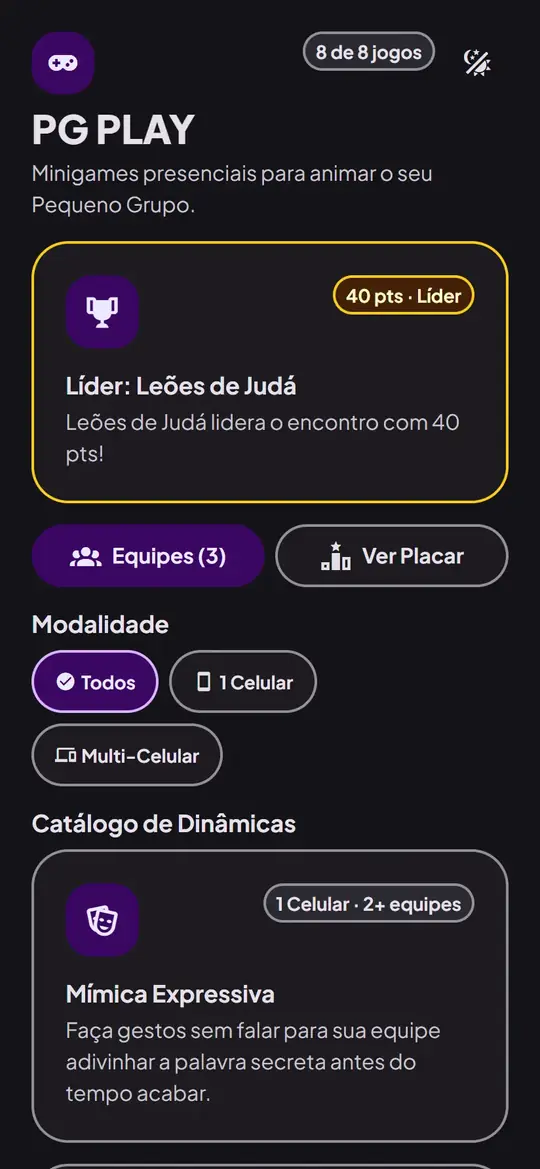
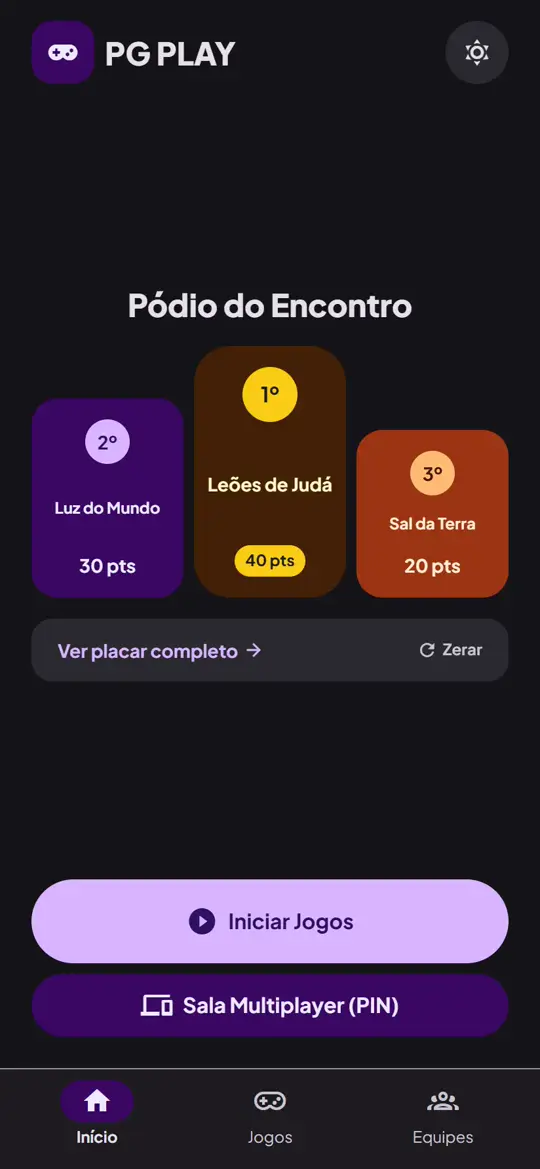
fix(docs): atualizar pacote, sons, exclusao e telas do site

diff --git a/site/index.html b/site/index.html
@@ -31,7 +31,7 @@
             <li><a class="nav-link" href="privacidade.html">Privacidade</a></li>
           </ul>
         </nav>
-        <a class="button button-primary header-cta" href="https://play.google.com/store/apps/details?id=br.edu.ifpi.pgplay"><svg viewBox="0 0 24 24" aria-hidden="true" focusable="false"><path fill="currentColor" d="M6 3.5v17a1 1 0 0 0 1.5.9l14-8.5a1 1 0 0 0 0-1.8l-14-8.5A1 1 0 0 0 6 3.5Z"/></svg>Baixar</a>
+        <a class="button button-primary header-cta" href="https://play.google.com/store/apps/details?id=br.pgplay.app"><svg viewBox="0 0 24 24" aria-hidden="true" focusable="false"><path fill="currentColor" d="M6 3.5v17a1 1 0 0 0 1.5.9l14-8.5a1 1 0 0 0 0-1.8l-14-8.5A1 1 0 0 0 6 3.5Z"/></svg>Baixar</a>
         <details class="menu">
           <summary aria-label="Menu"><svg class="icon-open" viewBox="0 0 24 24" fill="none" stroke="currentColor" stroke-width="2.4" stroke-linecap="round" aria-hidden="true" focusable="false"><path d="M4 7h16M4 12h16M4 17h10"/></svg><svg class="icon-close" viewBox="0 0 24 24" fill="none" stroke="currentColor" stroke-width="2.4" stroke-linecap="round" aria-hidden="true" focusable="false"><path d="M6 6l12 12M18 6 6 18"/></svg></summary>
           <nav class="menu-panel" aria-label="Menu">
@@ -42,7 +42,7 @@
               <li><a class="nav-link" href="privacidade.html"><svg viewBox="0 0 24 24" fill="none" stroke="currentColor" stroke-width="2" stroke-linecap="round" stroke-linejoin="round" aria-hidden="true" focusable="false"><path d="M12 3 4 6v6c0 4.5 3.4 8 8 9 4.6-1 8-4.5 8-9V6l-8-3Z"/><path d="m9 12 2 2 4-4"/></svg>Privacidade</a></li>
               <li><a class="nav-link" href="termos.html"><svg viewBox="0 0 24 24" fill="none" stroke="currentColor" stroke-width="2" stroke-linecap="round" stroke-linejoin="round" aria-hidden="true" focusable="false"><path d="M7 3h7l4 4v14H7z"/><path d="M14 3v4h4M10 12h5M10 16h5"/></svg>Termos de Uso</a></li>
             </ul>
-            <a class="button button-primary" href="https://play.google.com/store/apps/details?id=br.edu.ifpi.pgplay"><svg viewBox="0 0 24 24" aria-hidden="true" focusable="false"><path fill="currentColor" d="M6 3.5v17a1 1 0 0 0 1.5.9l14-8.5a1 1 0 0 0 0-1.8l-14-8.5A1 1 0 0 0 6 3.5Z"/></svg>Baixar no Google Play</a>
+            <a class="button button-primary" href="https://play.google.com/store/apps/details?id=br.pgplay.app"><svg viewBox="0 0 24 24" aria-hidden="true" focusable="false"><path fill="currentColor" d="M6 3.5v17a1 1 0 0 0 1.5.9l14-8.5a1 1 0 0 0 0-1.8l-14-8.5A1 1 0 0 0 6 3.5Z"/></svg>Baixar no Google Play</a>
           </nav>
         </details>
       </div>
@@ -57,7 +57,7 @@
           <h1 id="titulo">Minigames e dinâmicas interativas para <span class="shine">Pequenos Grupos</span></h1>
           <p class="lead">O PG PLAY junta 8 jogos para animar o encontro da sua célula, do grupo de jovens ou da família: do quebra-gelo ao momento de oração, com um celular passando de mão em mão ou com todo mundo na mesma sala.</p>
           <div class="actions">
-            <a class="button button-primary button-jumbo" href="https://play.google.com/store/apps/details?id=br.edu.ifpi.pgplay">
+            <a class="button button-primary button-jumbo" href="https://play.google.com/store/apps/details?id=br.pgplay.app">
               <svg viewBox="0 0 24 24" aria-hidden="true" focusable="false"><path fill="currentColor" d="M6 3.5v17a1 1 0 0 0 1.5.9l14-8.5a1 1 0 0 0 0-1.8l-14-8.5A1 1 0 0 0 6 3.5Z"/></svg>
               Baixar no Google Play
             </a>
@@ -78,7 +78,7 @@
           <figure class="phone">
             <picture>
               <source srcset="assets/screens/hub-dark.webp" media="(prefers-color-scheme: dark)">
-              <img src="assets/screens/hub.webp" alt="Tela inicial do PG PLAY: a equipe Leões de Judá lidera com 40 pontos, com filtros por modalidade e o catálogo de dinâmicas começando pela Mímica Expressiva." width="540" height="1169" fetchpriority="high">
+              <img src="assets/screens/hub.webp" alt="Tela inicial do PG PLAY: Pódio do Encontro com Leões de Judá em 1º lugar com 40 pontos, Luz do Mundo em 2º e Sal da Terra em 3º, e os botões Iniciar Jogos e Sala Multiplayer (PIN)." width="540" height="1169" fetchpriority="high">
             </picture>
           </figure>
           <span class="float float-timer" aria-hidden="true"><svg viewBox="0 0 24 24" fill="none" stroke="currentColor" stroke-width="2.4" stroke-linecap="round"><circle cx="12" cy="13" r="8"/><path d="M12 9v4l2.5 2M9 2h6"/></svg>00:59</span>
@@ -106,7 +106,7 @@
           <li class="step">
             <span class="step-number"><span class="shape" aria-hidden="true"><svg viewBox="0 0 200 200" focusable="false"><path class="fill-action" d="M100.0 12.0L107.5 14.4L114.2 19.5L120.6 23.1L127.9 23.2L136.3 22.1L144.0 23.8L149.3 29.6L152.5 37.4L156.3 43.7L162.6 47.5L170.4 50.7L176.2 56.0L177.9 63.7L176.8 72.1L176.9 79.4L180.5 85.8L185.6 92.5L188.0 100.0L185.6 107.5L180.5 114.2L176.9 120.6L176.8 127.9L177.9 136.3L176.2 144.0L170.4 149.3L162.6 152.5L156.3 156.3L152.5 162.6L149.3 170.4L144.0 176.2L136.3 177.9L127.9 176.8L120.6 176.9L114.2 180.5L107.5 185.6L100.0 188.0L92.5 185.6L85.8 180.5L79.4 176.9L72.1 176.8L63.7 177.9L56.0 176.2L50.7 170.4L47.5 162.6L43.7 156.3L37.4 152.5L29.6 149.3L23.8 144.0L22.1 136.3L23.2 127.9L23.1 120.6L19.5 114.2L14.4 107.5L12.0 100.0L14.4 92.5L19.5 85.8L23.1 79.4L23.2 72.1L22.1 63.7L23.8 56.0L29.6 50.7L37.4 47.5L43.7 43.7L47.5 37.4L50.7 29.6L56.0 23.8L63.7 22.1L72.1 23.2L79.4 23.1L85.8 19.5L92.5 14.4Z"/></svg></span>1</span>
             <figure class="phone">
-              <img src="assets/screens/teams.webp" alt="Tela de configuração de equipes com Leões de Judá, Luz do Mundo e Sal da Terra cadastradas e o botão Começar Rodada." width="540" height="1169" loading="lazy" decoding="async">
+              <img src="assets/screens/teams.webp" alt="Tela Equipes do Encontro com Leões de Judá, Luz do Mundo e Sal da Terra cadastradas e o botão Escolher Jogo." width="540" height="1169" loading="lazy" decoding="async">
             </figure>
             <div>
               <h3>Cadastre as equipes</h3>
@@ -116,7 +116,7 @@
           <li class="step">
             <span class="step-number"><span class="shape" aria-hidden="true"><svg viewBox="0 0 200 200" focusable="false"><path class="fill-secondary" d="M100.0 12.0L107.5 14.2L114.1 19.8L119.9 25.7L125.6 29.6L132.5 30.3L140.7 29.4L149.4 29.5L156.6 32.6L160.9 39.1L162.4 47.6L163.0 55.9L164.9 62.5L169.7 67.5L176.6 72.1L183.2 77.7L186.7 84.7L185.8 92.5L181.5 100.0L176.6 106.7L173.8 113.0L174.3 119.9L176.6 127.9L178.0 136.4L176.2 144.0L170.5 149.4L162.4 152.4L154.4 154.4L148.2 157.4L144.1 163.0L140.7 170.6L136.4 178.0L130.1 182.7L122.3 183.2L114.1 180.2L106.7 176.6L100.0 175.0L93.3 176.6L85.9 180.2L77.7 183.2L69.9 182.7L63.6 178.0L59.3 170.6L55.9 163.0L51.8 157.4L45.6 154.4L37.6 152.4L29.5 149.4L23.8 144.0L22.0 136.4L23.4 127.9L25.7 119.9L26.2 113.0L23.4 106.7L18.5 100.0L14.2 92.5L13.3 84.7L16.8 77.7L23.4 72.1L30.3 67.5L35.1 62.5L37.0 55.9L37.6 47.6L39.1 39.1L43.4 32.6L50.6 29.5L59.3 29.4L67.5 30.3L74.4 29.6L80.1 25.7L85.9 19.8L92.5 14.2Z"/></svg></span>2</span>
             <figure class="phone">
-              <img src="assets/screens/hub-dark.webp" alt="Catálogo de dinâmicas no tema escuro, com filtros Todos, 1 Celular e Multi-Celular." width="540" height="1169" loading="lazy" decoding="async">
+              <img src="assets/screens/jogos-dark.webp" alt="Aba Jogos do Encontro no tema escuro, com os filtros Todos, 1 Celular e Multi-Celular e os cartões da Mímica Expressiva e do Quiz Relâmpago." width="540" height="1169" loading="lazy" decoding="async">
             </figure>
             <div>
               <h3>Escolha a dinâmica</h3>
@@ -367,8 +367,8 @@
           <li>
             <article class="card">
               <span class="badge badge-success" aria-hidden="true"><svg viewBox="0 0 24 24" fill="none" stroke="currentColor" stroke-width="2" stroke-linecap="round" stroke-linejoin="round"><rect x="7" y="2" width="10" height="20" rx="3"/><path d="M3 8v8M21 8v8"/></svg></span>
-              <h3>Vibração que avisa</h3>
-              <p>O celular vibra nos 10 segundos finais e no acerto ou erro, para quem não está olhando a tela.</p>
+              <h3>Som e vibração que avisam</h3>
+              <p>Sons curtos e vibração marcam os acertos, os erros, os 10 segundos finais e o fim do tempo, para quem não está olhando a tela.</p>
             </article>
           </li>
           <li>
@@ -404,7 +404,7 @@
           <h2 id="titulo-cta">Leve o PG PLAY para o seu próximo encontro</h2>
           <p>Gratuito, sem anúncios e pronto para jogar com o grupo em poucos toques.</p>
           <div class="actions">
-            <a class="button button-highlight button-jumbo" href="https://play.google.com/store/apps/details?id=br.edu.ifpi.pgplay">
+            <a class="button button-highlight button-jumbo" href="https://play.google.com/store/apps/details?id=br.pgplay.app">
               <svg viewBox="0 0 24 24" aria-hidden="true" focusable="false"><path fill="currentColor" d="M6 3.5v17a1 1 0 0 0 1.5.9l14-8.5a1 1 0 0 0 0-1.8l-14-8.5A1 1 0 0 0 6 3.5Z"/></svg>
               Baixar no Google Play
             </a>

diff --git a/site/privacidade.html b/site/privacidade.html
@@ -32,7 +32,7 @@
             <li><a class="nav-link" href="termos.html">Termos de Uso</a></li>
           </ul>
         </nav>
-        <a class="button button-primary header-cta" href="https://play.google.com/store/apps/details?id=br.edu.ifpi.pgplay"><svg viewBox="0 0 24 24" aria-hidden="true" focusable="false"><path fill="currentColor" d="M6 3.5v17a1 1 0 0 0 1.5.9l14-8.5a1 1 0 0 0 0-1.8l-14-8.5A1 1 0 0 0 6 3.5Z"/></svg>Baixar</a>
+        <a class="button button-primary header-cta" href="https://play.google.com/store/apps/details?id=br.pgplay.app"><svg viewBox="0 0 24 24" aria-hidden="true" focusable="false"><path fill="currentColor" d="M6 3.5v17a1 1 0 0 0 1.5.9l14-8.5a1 1 0 0 0 0-1.8l-14-8.5A1 1 0 0 0 6 3.5Z"/></svg>Baixar</a>
         <details class="menu">
           <summary aria-label="Menu"><svg class="icon-open" viewBox="0 0 24 24" fill="none" stroke="currentColor" stroke-width="2.4" stroke-linecap="round" aria-hidden="true" focusable="false"><path d="M4 7h16M4 12h16M4 17h10"/></svg><svg class="icon-close" viewBox="0 0 24 24" fill="none" stroke="currentColor" stroke-width="2.4" stroke-linecap="round" aria-hidden="true" focusable="false"><path d="M6 6l12 12M18 6 6 18"/></svg></summary>
           <nav class="menu-panel" aria-label="Menu">
@@ -42,7 +42,7 @@
               <li><a class="nav-link" href="privacidade.html" aria-current="page"><svg viewBox="0 0 24 24" fill="none" stroke="currentColor" stroke-width="2" stroke-linecap="round" stroke-linejoin="round" aria-hidden="true" focusable="false"><path d="M12 3 4 6v6c0 4.5 3.4 8 8 9 4.6-1 8-4.5 8-9V6l-8-3Z"/><path d="m9 12 2 2 4-4"/></svg>Privacidade</a></li>
               <li><a class="nav-link" href="termos.html"><svg viewBox="0 0 24 24" fill="none" stroke="currentColor" stroke-width="2" stroke-linecap="round" stroke-linejoin="round" aria-hidden="true" focusable="false"><path d="M7 3h7l4 4v14H7z"/><path d="M14 3v4h4M10 12h5M10 16h5"/></svg>Termos de Uso</a></li>
             </ul>
-            <a class="button button-primary" href="https://play.google.com/store/apps/details?id=br.edu.ifpi.pgplay"><svg viewBox="0 0 24 24" aria-hidden="true" focusable="false"><path fill="currentColor" d="M6 3.5v17a1 1 0 0 0 1.5.9l14-8.5a1 1 0 0 0 0-1.8l-14-8.5A1 1 0 0 0 6 3.5Z"/></svg>Baixar no Google Play</a>
+            <a class="button button-primary" href="https://play.google.com/store/apps/details?id=br.pgplay.app"><svg viewBox="0 0 24 24" aria-hidden="true" focusable="false"><path fill="currentColor" d="M6 3.5v17a1 1 0 0 0 1.5.9l14-8.5a1 1 0 0 0 0-1.8l-14-8.5A1 1 0 0 0 6 3.5Z"/></svg>Baixar no Google Play</a>
           </nav>
         </details>
       </div>
@@ -52,9 +52,9 @@
   <main id="conteudo" class="doc">
     <span class="tag">Documento oficial</span>
     <h1>Política de Privacidade do PG PLAY</h1>
-    <p class="doc-meta">Versão 1.0 · Última atualização: 24 de novembro de 2026</p>
+    <p class="doc-meta">Versão 1.1 · Última atualização: 25 de novembro de 2026</p>
 
-    <p>Esta política explica quais dados o aplicativo <strong>PG PLAY</strong> (pacote Android <code>br.edu.ifpi.pgplay</code>) usa, onde eles ficam, por quanto tempo e como você pode pedir para apagá-los. Ela vale para o aplicativo e para este site.</p>
+    <p>Esta política explica quais dados o aplicativo <strong>PG PLAY</strong> (pacote Android <code>br.pgplay.app</code>) usa, onde eles ficam, por quanto tempo e como você pode pedir para apagá-los. Ela vale para o aplicativo e para este site.</p>
 
     <section class="summary-box" aria-labelledby="resumo">
       <h2 id="resumo">Resumo em 30 segundos</h2>
@@ -99,7 +99,8 @@
       <ul>
         <li>os nomes das equipes que você cria e a pontuação do placar geral;</li>
         <li>os parâmetros de partida (tempo de turno, número de rodadas, pacotes de conteúdo);</li>
-        <li>a preferência de tema (claro, escuro ou automático).</li>
+        <li>a preferência de tema (claro, escuro ou automático);</li>
+        <li>a preferência de som dos jogos (ligado ou desligado).</li>
       </ul>
       <p>Esses dados <strong>não saem do aparelho</strong> e não são enviados para nós nem para terceiros. Você pode apagá-los a qualquer momento excluindo as equipes no app, limpando os dados do app nas configurações do Android ou desinstalando o PG PLAY.</p>
       <p>No <strong>Termômetro de Pedidos</strong>, os pedidos de oração e os tempos de fala existem apenas enquanto a tela está aberta. Eles não são gravados no aparelho nem enviados pela internet.</p>
@@ -158,6 +159,7 @@
         <li><strong>Vibração (feedback háptico):</strong> avisa os 10 segundos finais do cronômetro, o fim do tempo, acertos e erros. É desligada nos pulsos repetidos quando "Reduzir movimento" está ativo no sistema.</li>
         <li><strong>Acelerômetro (sensor de movimento):</strong> usado só no <strong>Quem Sou Eu?</strong>, para perceber quando você inclina o celular na testa para acertar ou passar. As leituras são usadas na hora e descartadas.</li>
         <li><strong>Orientação da tela:</strong> o <strong>Quem Sou Eu?</strong> trava a tela na horizontal durante a partida e a libera ao sair.</li>
+        <li><strong>Sons de jogo:</strong> efeitos curtos de acerto, erro, passe e cronômetro nos jogos de 1 celular. Os sons já vêm dentro do app e tocam no próprio aparelho; nada é baixado nem gravado.</li>
         <li><strong>Síntese de voz:</strong> o <strong>Cidade Dorme</strong> usa a voz do próprio aparelho para narrar a partida. O áudio é gerado no celular; o app <strong>não usa o microfone</strong>.</li>
         <li><strong>Internet:</strong> necessária apenas para as salas multiplayer e para buscar textos bíblicos.</li>
       </ul>
@@ -184,9 +186,17 @@
       <h2 id="retencao">8. Por quanto tempo guardamos e como apagar</h2>
       <ul>
         <li><strong>Dados no aparelho:</strong> ficam até você apagar as equipes, limpar os dados do app ou desinstalá-lo.</li>
-        <li><strong>Dados das salas multiplayer:</strong> ficam no servidor até serem removidos pela equipe. Para pedir a exclusão, escreva para o <a href="#contato">canal de contato</a> informando, se souber, o PIN da sala e o apelido usado. Atendemos em até 15 dias.</li>
+        <li><strong>Dados das salas multiplayer:</strong> ficam no servidor até serem removidos pela equipe. Veja abaixo como pedir a exclusão.</li>
         <li><strong>Login anônimo:</strong> desinstalar o app ou limpar os dados dele apaga o identificador do aparelho. Sem ele, ninguém consegue ligar as salas antigas a você.</li>
       </ul>
+      <h3 id="exclusao">Como pedir a exclusão dos seus dados do PG PLAY</h3>
+      <ol>
+        <li>Envie um e-mail para <a href="mailto:douglasleone09@gmail.com?subject=PG%20PLAY%20-%20Exclus%C3%A3o%20de%20dados">douglasleone09@gmail.com</a> com o assunto <strong>“PG PLAY - Exclusão de dados”</strong>.</li>
+        <li>Informe o <strong>apelido</strong> que você usou e o <strong>PIN da sala</strong>. Se não lembrar o PIN, diga a data aproximada da partida e o jogo (Cidade Dorme ou Adedonha Bíblica).</li>
+        <li>Em até <strong>15 dias</strong>, apagamos do servidor e respondemos confirmando a exclusão.</li>
+      </ol>
+      <p><strong>O que é apagado:</strong> o identificador anônimo de sessão, o apelido, as respostas da Adedonha Bíblica, os papéis e as ações do Cidade Dorme e, se você foi quem criou a sala, a sala inteira com os dados dos outros jogadores dela. Nenhum desses dados é guardado por nós depois da exclusão.</p>
+      <p><strong>Dados que ficam só no seu celular</strong> (equipes, placar e preferências) não chegam até nós: para apagá-los, exclua as equipes no app, limpe os dados do PG PLAY nas configurações do Android ou desinstale o app.</p>
     </section>
 
     <section aria-labelledby="menores">

diff --git a/site/termos.html b/site/termos.html
@@ -32,7 +32,7 @@
             <li><a class="nav-link" href="termos.html" aria-current="page">Termos de Uso</a></li>
           </ul>
         </nav>
-        <a class="button button-primary header-cta" href="https://play.google.com/store/apps/details?id=br.edu.ifpi.pgplay"><svg viewBox="0 0 24 24" aria-hidden="true" focusable="false"><path fill="currentColor" d="M6 3.5v17a1 1 0 0 0 1.5.9l14-8.5a1 1 0 0 0 0-1.8l-14-8.5A1 1 0 0 0 6 3.5Z"/></svg>Baixar</a>
+        <a class="button button-primary header-cta" href="https://play.google.com/store/apps/details?id=br.pgplay.app"><svg viewBox="0 0 24 24" aria-hidden="true" focusable="false"><path fill="currentColor" d="M6 3.5v17a1 1 0 0 0 1.5.9l14-8.5a1 1 0 0 0 0-1.8l-14-8.5A1 1 0 0 0 6 3.5Z"/></svg>Baixar</a>
         <details class="menu">
           <summary aria-label="Menu"><svg class="icon-open" viewBox="0 0 24 24" fill="none" stroke="currentColor" stroke-width="2.4" stroke-linecap="round" aria-hidden="true" focusable="false"><path d="M4 7h16M4 12h16M4 17h10"/></svg><svg class="icon-close" viewBox="0 0 24 24" fill="none" stroke="currentColor" stroke-width="2.4" stroke-linecap="round" aria-hidden="true" focusable="false"><path d="M6 6l12 12M18 6 6 18"/></svg></summary>
           <nav class="menu-panel" aria-label="Menu">
@@ -42,7 +42,7 @@
               <li><a class="nav-link" href="privacidade.html"><svg viewBox="0 0 24 24" fill="none" stroke="currentColor" stroke-width="2" stroke-linecap="round" stroke-linejoin="round" aria-hidden="true" focusable="false"><path d="M12 3 4 6v6c0 4.5 3.4 8 8 9 4.6-1 8-4.5 8-9V6l-8-3Z"/><path d="m9 12 2 2 4-4"/></svg>Privacidade</a></li>
               <li><a class="nav-link" href="termos.html" aria-current="page"><svg viewBox="0 0 24 24" fill="none" stroke="currentColor" stroke-width="2" stroke-linecap="round" stroke-linejoin="round" aria-hidden="true" focusable="false"><path d="M7 3h7l4 4v14H7z"/><path d="M14 3v4h4M10 12h5M10 16h5"/></svg>Termos de Uso</a></li>
             </ul>
-            <a class="button button-primary" href="https://play.google.com/store/apps/details?id=br.edu.ifpi.pgplay"><svg viewBox="0 0 24 24" aria-hidden="true" focusable="false"><path fill="currentColor" d="M6 3.5v17a1 1 0 0 0 1.5.9l14-8.5a1 1 0 0 0 0-1.8l-14-8.5A1 1 0 0 0 6 3.5Z"/></svg>Baixar no Google Play</a>
+            <a class="button button-primary" href="https://play.google.com/store/apps/details?id=br.pgplay.app"><svg viewBox="0 0 24 24" aria-hidden="true" focusable="false"><path fill="currentColor" d="M6 3.5v17a1 1 0 0 0 1.5.9l14-8.5a1 1 0 0 0 0-1.8l-14-8.5A1 1 0 0 0 6 3.5Z"/></svg>Baixar no Google Play</a>
           </nav>
         </details>
       </div>

diff --git a/tests/unit/siteIntegrity.test.ts b/tests/unit/siteIntegrity.test.ts
@@ -257,7 +257,7 @@ describe('Landing Page', () => {
   });
 
   it('leva à Google Play, à Política de Privacidade e aos Termos de Uso', () => {
-    expect(html).toContain('https://play.google.com/store/apps/details?id=br.edu.ifpi.pgplay');
+    expect(html).toContain('https://play.google.com/store/apps/details?id=br.pgplay.app');
     expect(html).toContain('href="privacidade.html"');
     expect(html).toContain('href="termos.html"');
   });

diff --git a/specs/027-site-politica-privacidade/tasks.md b/specs/027-site-politica-privacidade/tasks.md
@@ -65,3 +65,10 @@
 
 - [x] **T022** Cabeçalho como barra de ferramentas flutuante: pílula com vidro fosco e elevação ao rolar, marca com subtítulo, links em pílula com indicador ativo e *shape morphing*, destaque da seção visível (`:target-current`, Chrome 140+), botão "Baixar" e menu do celular com `<details>` (sem JavaScript), conferido em 320, 360, 820 e 1366 px nos temas claro e escuro.
 - [x] **T023** Cortes no celular (auditoria automática em 320, 360, 390 e 412 px, com fonte normal e em 130%): chips "Ir para um jogo" quebram em linhas em vez de rolar de lado; tabela da Política de Privacidade sem largura mínima e empilhada abaixo de 36rem; entrada lateral dos celulares da vitrine reduzida no celular (24 px e 4°).
+
+## Fase 9: Ajustes para o Play Console (2026-11-25)
+
+- [x] **T024** Pacote `br.edu.ifpi.pgplay` trocado por `br.pgplay.app` (app criado no Play Console) nos links da Play Store, na Política de Privacidade e no teste do site.
+- [x] **T025** Política v1.1: preferência de som no armazenamento local e sons de jogo na seção de permissões (PR #86), e seção "Como pedir a exclusão dos seus dados do PG PLAY" (`#exclusao`) com passos, dados apagados e prazo, exigida pelo link de exclusão do formulário de Segurança dos dados.
+- [x] **T026** Capturas da tela inicial (Pódio do Encontro, claro e escuro), da aba Jogos (`jogos-dark.webp`), das Equipes e do Ranking refeitas a partir da `develop` com a tela inicial do PR #89; card "Som e vibração que avisam".
+- [ ] **T027** Atualizar a seção *Retenção* para "salas apagadas após 7 dias" somente depois que a migração `007` (spec 028) estiver aplicada no Supabase.
